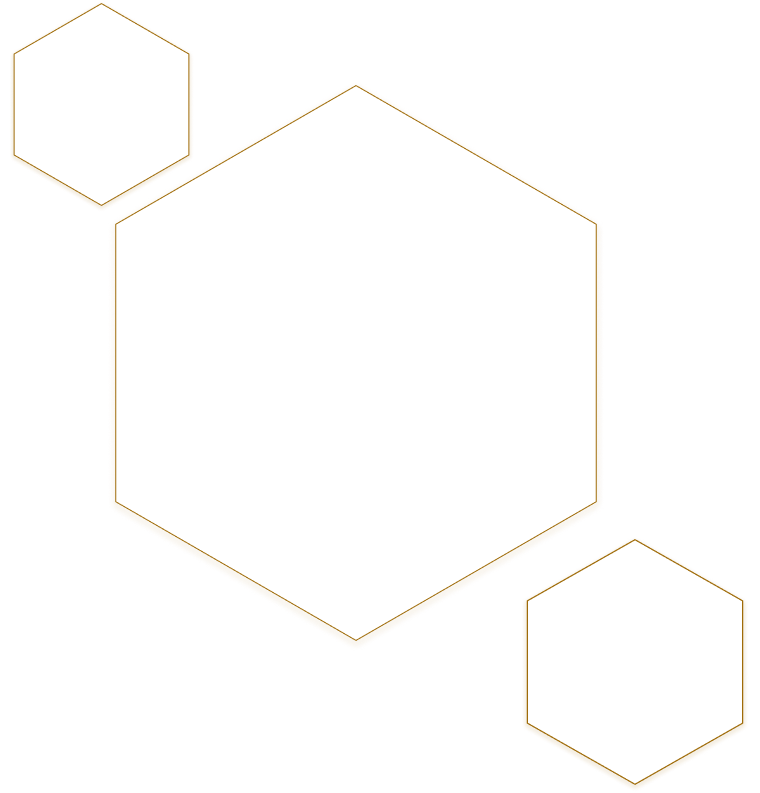
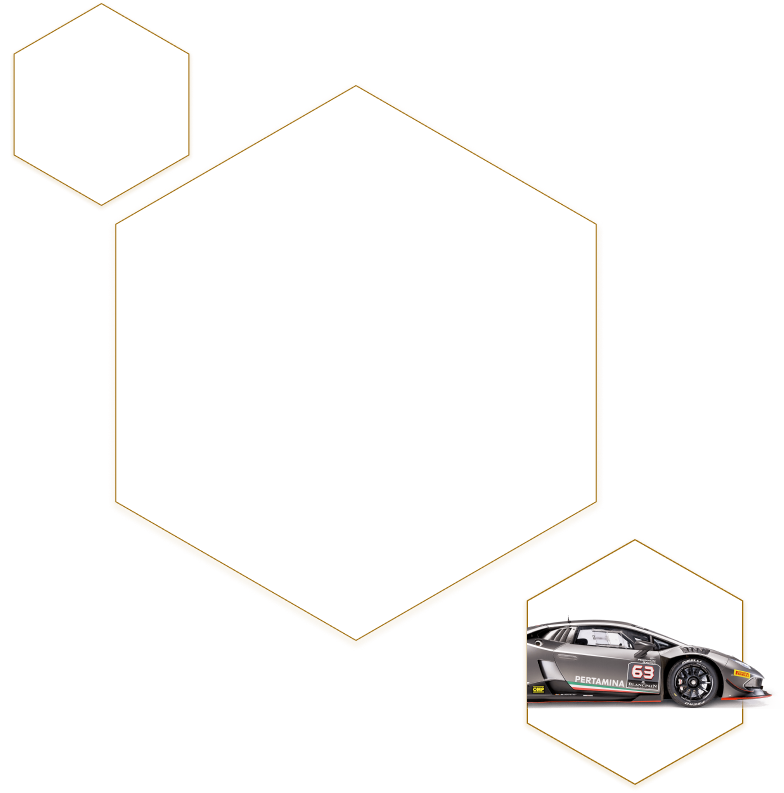
add "Super Trofeo"

diff --git a/index.html b/index.html
@@ -212,40 +212,54 @@
               </p>
             </div>
           </div>
-          <img src="/images/st__lamborgni.png" alt="" />
+          <img
+            class="st__grey-lamborgini-img"
+            src="/images/st__lamborgni.png"
+            alt=""
+          />
           <div class="st__grey-content-down">
             <p>ПЕРЕМЕЩЕНИЕ 5204 см³</p>
-            <p>КРУТЯЩИЙ МОМЕНТ 570 Нм при 6500 об/мин</p>
-            <p>МОЩНОСТЬ (л.с.) / МОЩНОСТЬ (КВТ) 620 л.с. при 8250 об/мин</p>
+            <p>КРУТЯЩИЙ&nbsp;МОМЕНТ 570 Нм при 6500 об/мин</p>
+            <p>
+              МОЩНОСТЬ (л.с.) / МОЩНОСТЬ&nbsp;(КВТ) 620 л.с. при 8250 об/мин
+            </p>
             <p>МАКС. СКОРОСТЬ 325 км /ч</p>
-            <p>0-100 КМ/Ч 2,9 с</p>
+            <p>0-100КМ/Ч&nbsp;2,9 с</p>
           </div>
+          <img class="st__1" src="images/st__1.png" alt="" />
         </div>
       </section>
       <section class="st__white">
         <div class="container">
-          <div class="st__white-text">
-            <p>
-              Его неповторимый дизайн — это естественная эволюция культовых
-              линий Huracán, включающая новые сложные решения, поднимающие
-              производительность и вызывающие эмоции на невиданный ранее
-              уровень.
-            </p>
-            <p>
-              Беспрецедентный обвес был разработан инженерами отдела автоспорта
-              Automobili Lamborghini в сотрудничестве с Dallara Engineering и
-              Lamborghini Centro Stile. Последний также разработал стартовую
-              ливрею для автомобиля в честь партнерства между Lamborghini
-              Squadra Corse и Roger Dubuis, которое началось в 2018 году.
-            </p>
-            <p>
-              Среди наиболее очевидных изменений в обвесе Lamborghini Huracan
-              Super Trofeo EVO — задний спойлер на заднем капоте и верхний
-              воздухозаборник, которые делают его мгновенно узнаваемым для
-              зрителей.
-            </p>
+          <div class="st__white-content">
+            <div class="st__white-text">
+              <p class="st__white-text-1">
+                Его неповторимый дизайн — это естественная эволюция культовых
+                линий Huracán, включающая новые сложные решения, поднимающие
+                производительность и вызывающие эмоции на невиданный ранее
+                уровень.
+              </p>
+              <p class="st__white-text-2">
+                Беспрецедентный обвес был разработан инженерами отдела
+                автоспорта Automobili Lamborghini в сотрудничестве с Dallara
+                Engineering и Lamborghini Centro Stile. Последний также
+                разработал стартовую ливрею для автомобиля в честь партнерства
+                между Lamborghini Squadra Corse и Roger Dubuis, которое началось
+                в 2018 году.
+              </p>
+              <p class="st__white-text-3">
+                Среди наиболее очевидных изменений в обвесе Lamborghini Huracan
+                Super Trofeo EVO — задний спойлер на заднем капоте и верхний
+                воздухозаборник, которые делают его мгновенно узнаваемым для
+                зрителей.
+              </p>
+            </div>
+            <img src="images/st__2.jpg" alt="" />
           </div>
         </div>
+      </section>
+      <section class="watch">
+        <div class="container"></div>
       </section>
     </main>
   </body>

diff --git a/css/style.css b/css/style.css
@@ -226,7 +226,7 @@ header {
 }
 
 .trail__text {
-  padding: 47px 455px 0 0;
+  padding: 47px 455px 300px 0;
 }
 
 .trail__text p {
@@ -234,13 +234,12 @@ header {
 }
 
 .trail__img {
-  padding-top: 250px;
   display: block;
   margin: 0 auto;
 }
 
 .st__grey {
-  height: 871px;
+  height: 930px;
   background-image: url(../images/st__background.jpg);
   background-size: cover;
   background-position: center;
@@ -271,12 +270,46 @@ header {
 }
 
 .st__grey-content-down {
+  position: relative;
+  z-index: 1;
   display: flex;
   flex-direction: row;
-  gap: 65px;
-  max-width: 100px;
+}
+
+.st__grey-lamborgini-img {
+  position: relative;
+  z-index: 1;
+  display: block;
+  margin: 0 auto;
+  padding: 198px 0 58px 0;
+}
+
+.st__1 {
+  position: absolute;
+  transform: translate(0px, -552px);
+  z-index: 0;
 }
 
 .st__white {
   height: 424px;
+}
+
+.st__white-content {
+  display: flex;
+  padding: 126px 0 0 30px;
+  justify-content: center;
+}
+
+.st__white-content p {
+  padding-bottom: 30px;
+}
+
+.st__white-text-1 {
+  max-width: 285px;
+}
+.st__white-text-2 {
+  max-width: 437px;
+}
+.st__white-text-3 {
+  max-width: 590px;
 }
